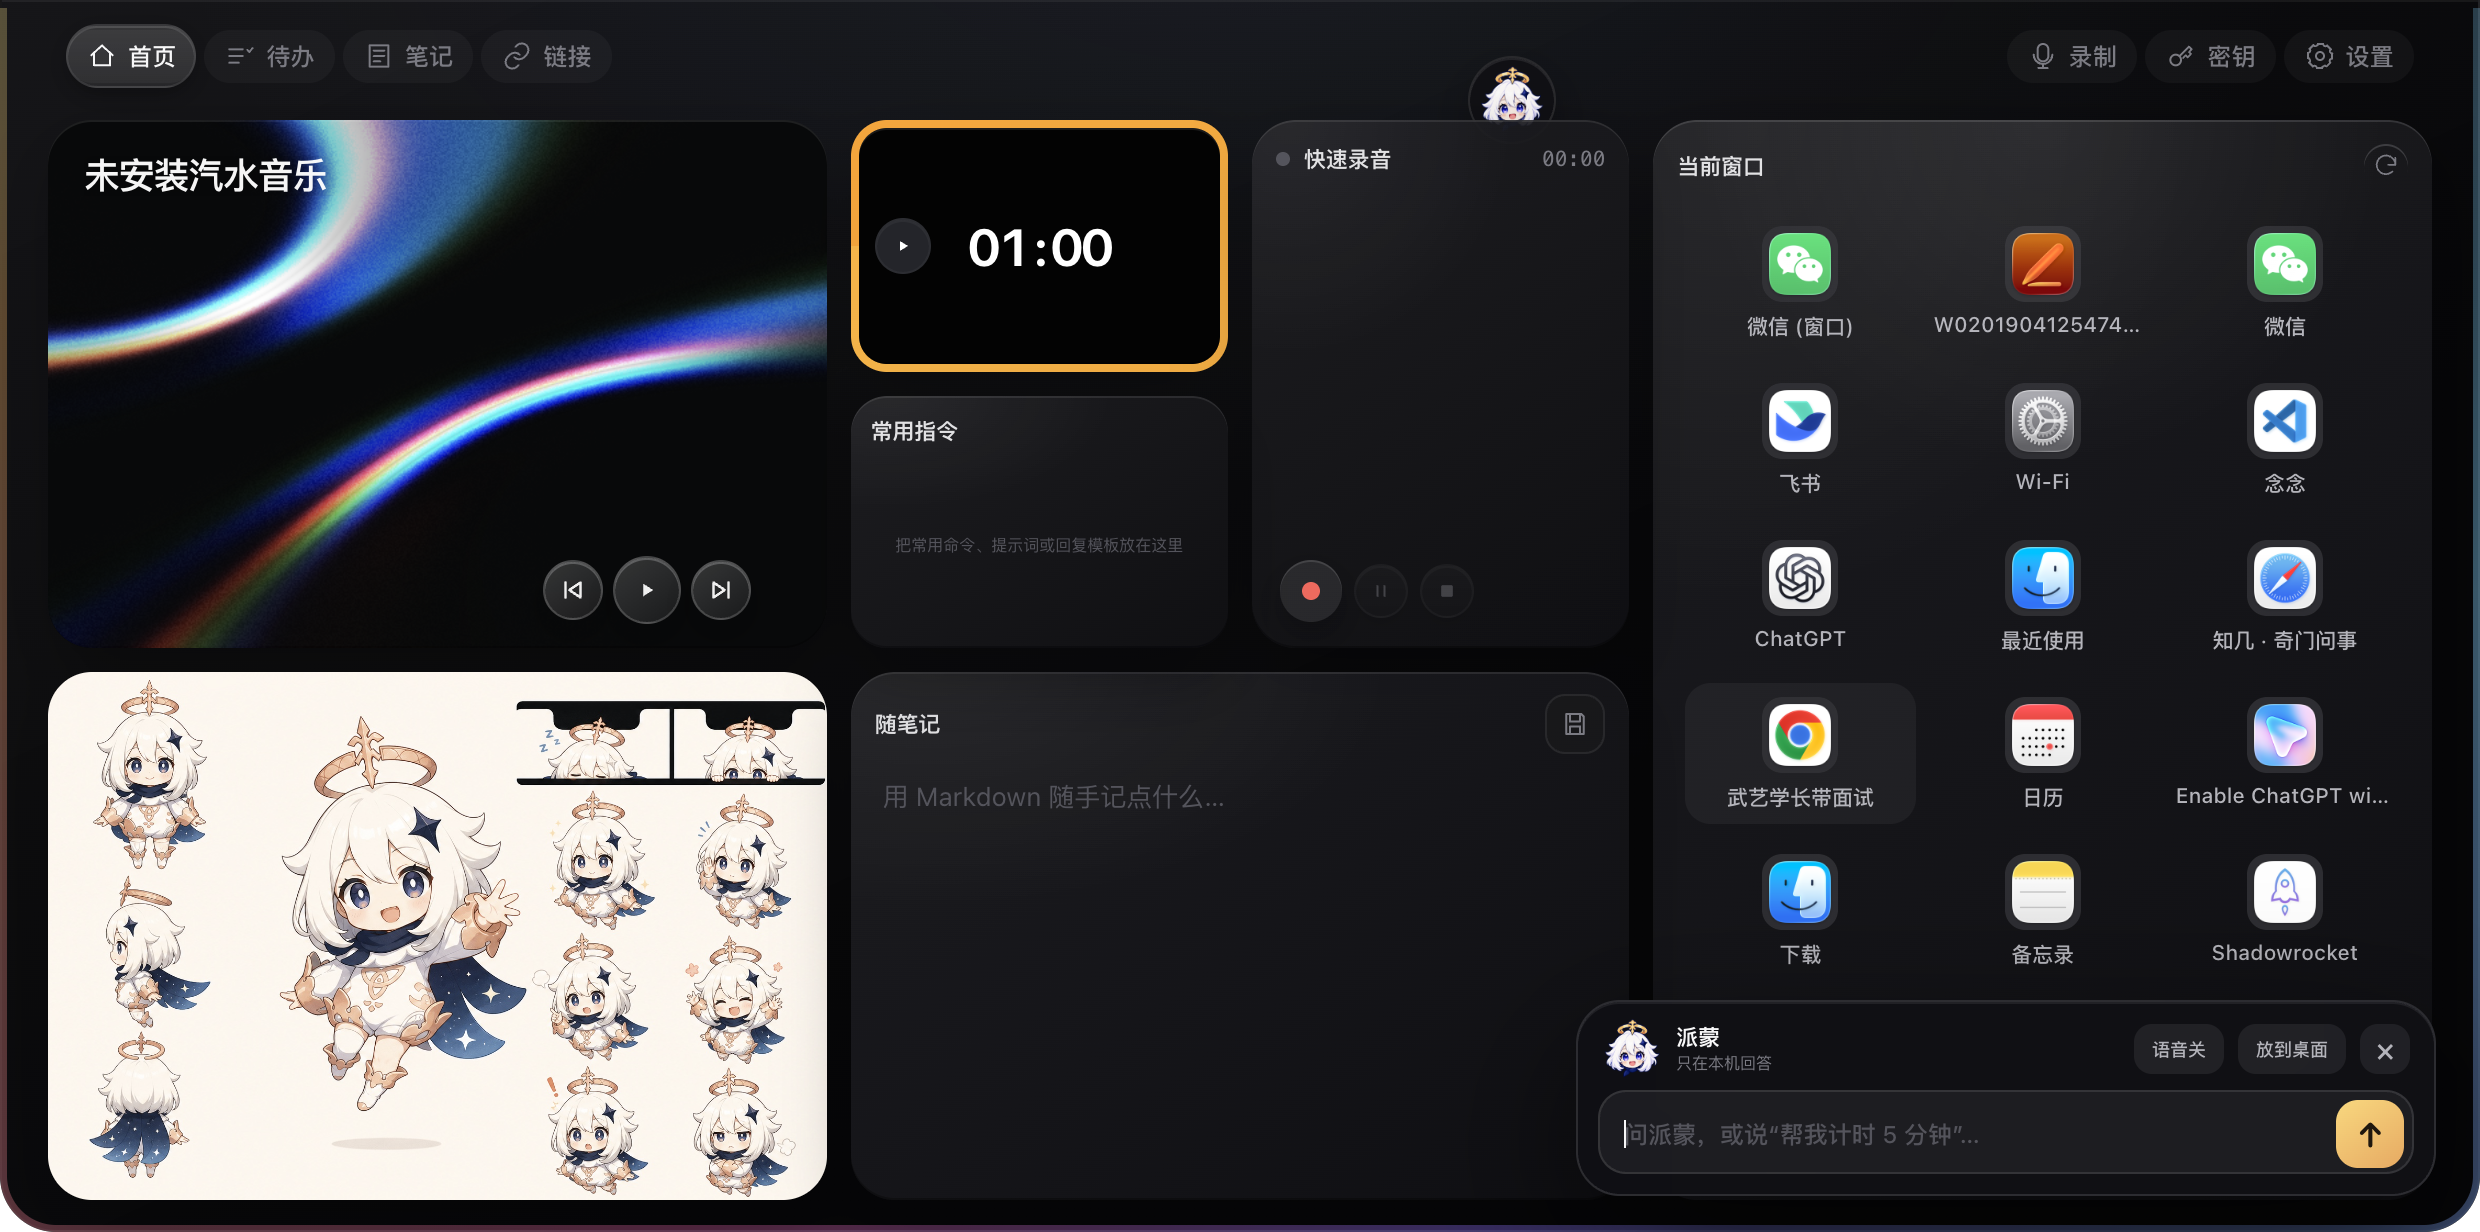
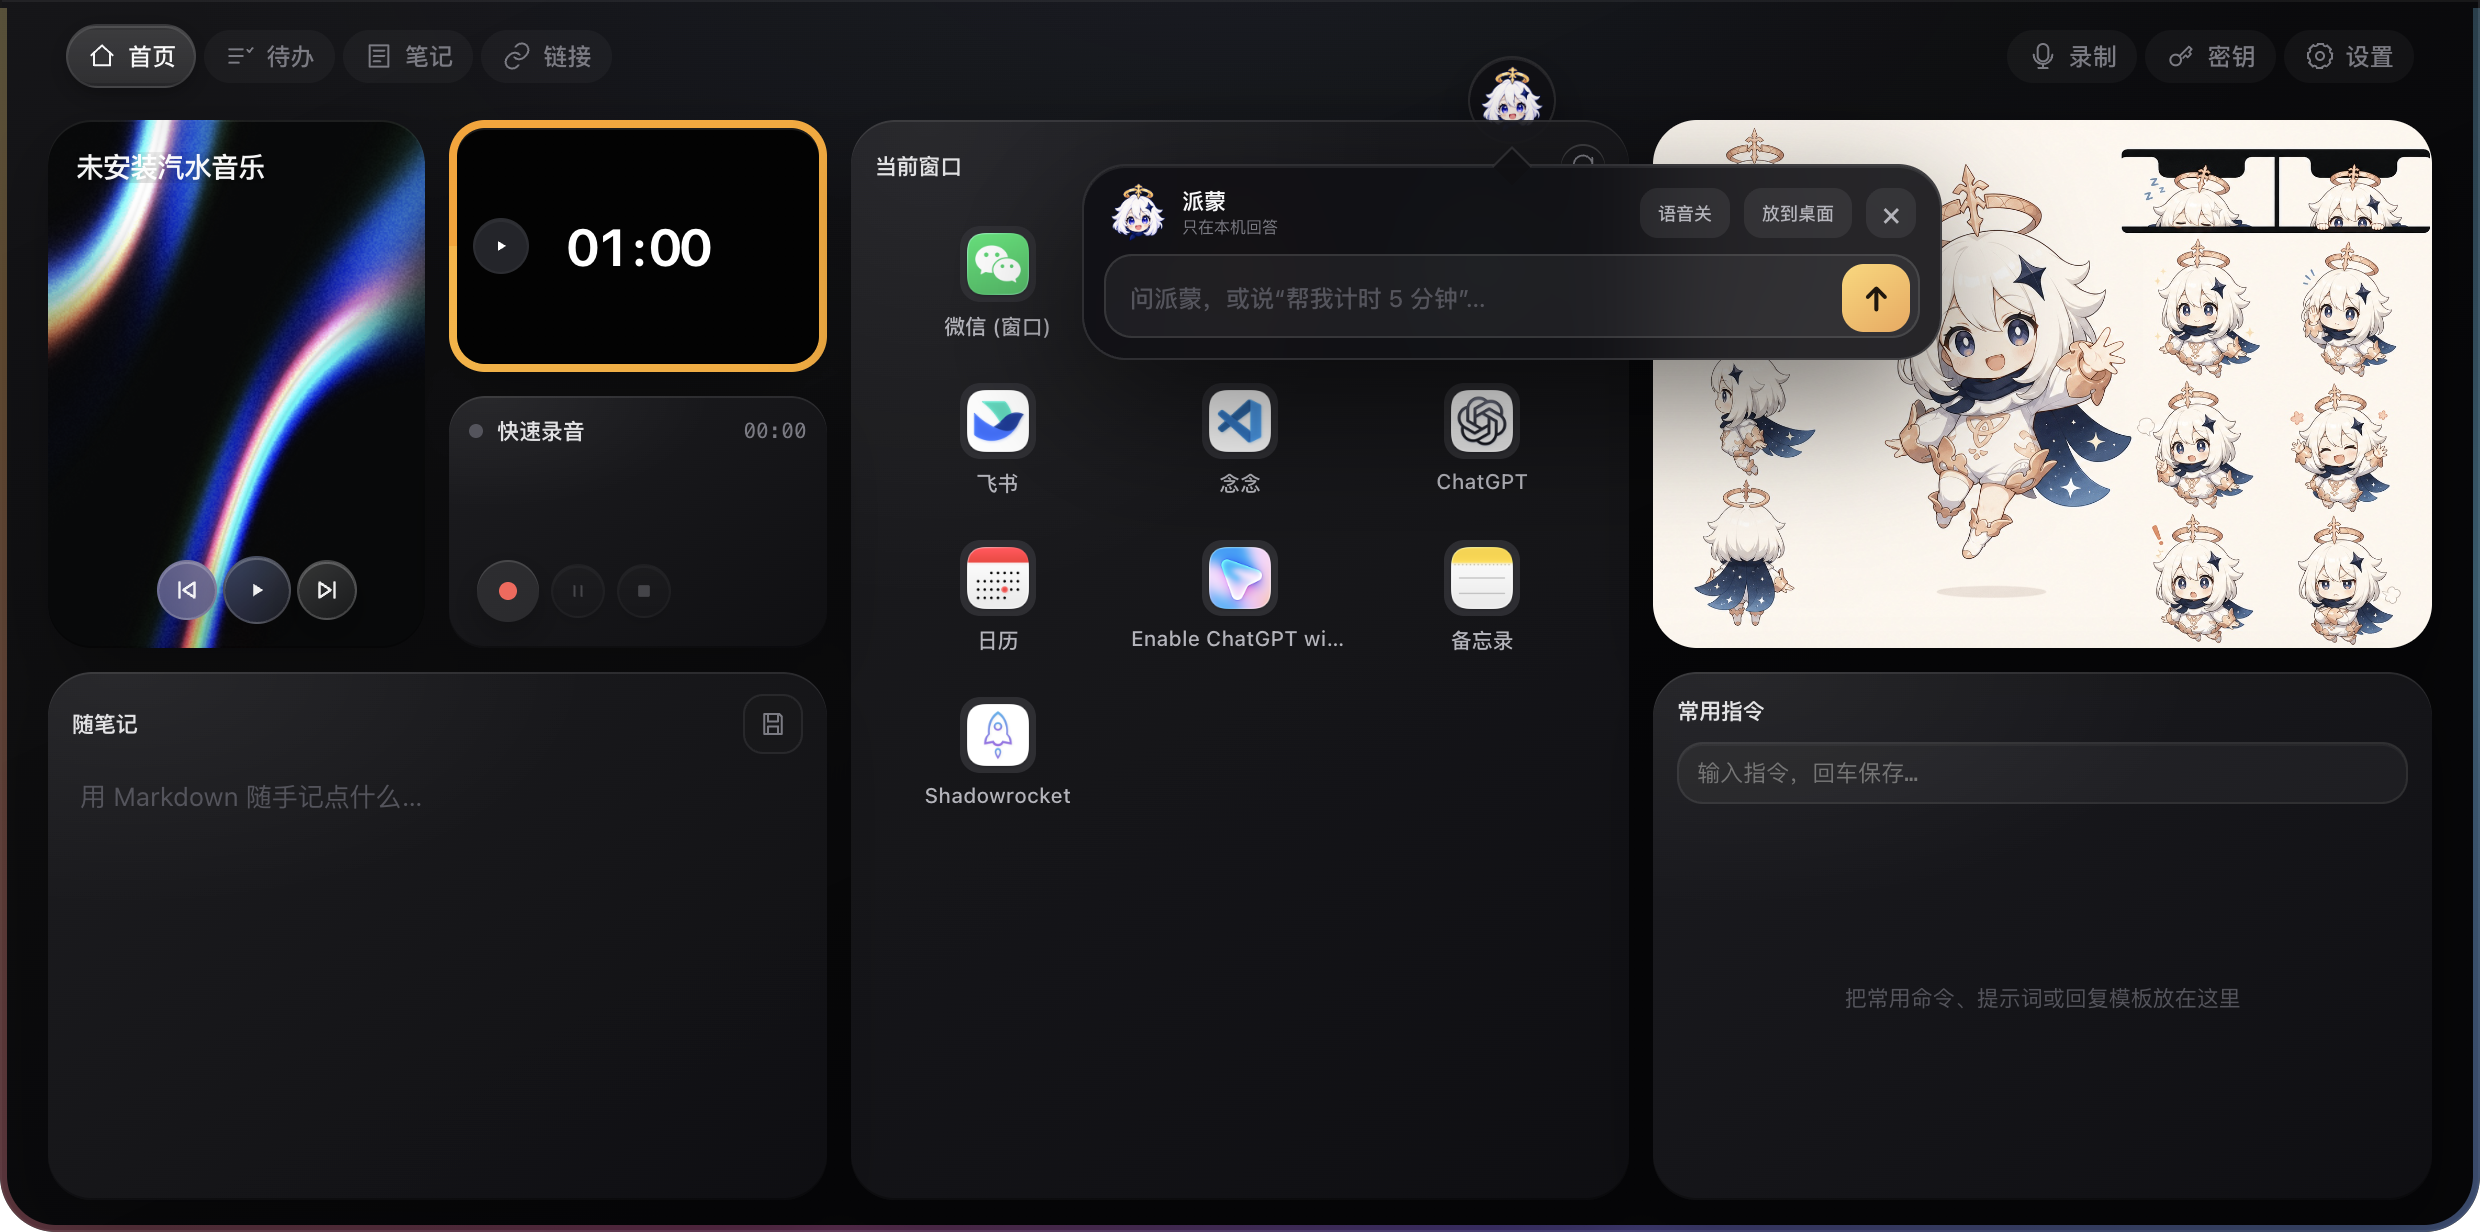
fix: anchor assistant below Paimon

diff --git a/ElectronRebase/scripts/capture-paimon-ui.js b/ElectronRebase/scripts/capture-paimon-ui.js
@@ -82,6 +82,23 @@ async function main() {
     await new Promise((resolve) => setTimeout(resolve, 250));
     const assistantVisible = await evaluate(mainClient, `!document.getElementById('paimon-assistant').hidden`);
     if (!assistantVisible) throw new Error('assistant composer did not open');
+    const assistantGeometry = await evaluate(mainClient, `(() => {
+      const panel = document.getElementById('paimon-assistant').getBoundingClientRect();
+      const trigger = document.getElementById('paimon-top-trigger').getBoundingClientRect();
+      return {
+        panel: { x: panel.x, y: panel.y, width: panel.width, height: panel.height, right: panel.right, bottom: panel.bottom },
+        trigger: { x: trigger.x, y: trigger.y, width: trigger.width, height: trigger.height, bottom: trigger.bottom },
+        viewport: { width: innerWidth, height: innerHeight }
+      };
+    })()`);
+    const panelCenter = assistantGeometry.panel.x + assistantGeometry.panel.width / 2;
+    const triggerCenter = assistantGeometry.trigger.x + assistantGeometry.trigger.width / 2;
+    if (Math.abs(panelCenter - triggerCenter) > 2) {
+      throw new Error(`assistant is not anchored to Paimon: ${JSON.stringify(assistantGeometry)}`);
+    }
+    if (assistantGeometry.panel.y < assistantGeometry.trigger.bottom || assistantGeometry.panel.right > assistantGeometry.viewport.width - 12) {
+      throw new Error(`assistant escaped the notch workspace: ${JSON.stringify(assistantGeometry)}`);
+    }
     const assistantPath = await capture(mainClient, 'paimon-pal-assistant.png');
 
     await evaluate(mainClient, `(() => {
@@ -139,6 +156,7 @@ async function main() {
       ok: true,
       expandedPath,
       assistantPath,
+      assistantGeometry,
       timerPath,
       modelPath,
       petPath,

diff --git a/ElectronRebase/renderer/styles.css b/ElectronRebase/renderer/styles.css
@@ -5422,8 +5422,11 @@ body {
 .paimon-assistant {
   position: absolute;
   z-index: 80;
-  right: 22px;
-  bottom: 18px;
+  top: 82px;
+  left: calc(50% + 136px);
+  right: auto;
+  bottom: auto;
+  translate: -50% 0;
   width: min(430px, calc(100% - 44px));
   padding: 10px;
   border: 1px solid rgba(255,255,255,.12);
@@ -5432,12 +5435,26 @@ body {
   box-shadow: 0 24px 70px rgba(0,0,0,.54), inset 0 1px rgba(255,255,255,.07);
   backdrop-filter: blur(28px) saturate(1.15);
   opacity: 0;
-  transform: translateY(12px) scale(.97);
-  transform-origin: 85% 100%;
+  transform: translateY(-8px) scale(.97);
+  transform-origin: 50% 0;
   transition: opacity 150ms var(--ease), transform 190ms var(--ease-out);
 }
 
 .paimon-assistant.is-visible { opacity: 1; transform: translateY(0) scale(1); }
+
+.paimon-assistant::before {
+  content: '';
+  position: absolute;
+  left: 50%;
+  top: -7px;
+  width: 13px;
+  height: 13px;
+  translate: -50% 0;
+  rotate: 45deg;
+  border-left: 1px solid rgba(255,255,255,.12);
+  border-top: 1px solid rgba(255,255,255,.12);
+  background: rgba(16,16,20,.94);
+}
 
 .paimon-assistant-head {
   height: 34px;

diff --git a/ElectronRebase/docs/PAIMON-PAL-0.5.0-IMPLEMENTATION-REPORT.md b/ElectronRebase/docs/PAIMON-PAL-0.5.0-IMPLEMENTATION-REPORT.md
@@ -16,6 +16,7 @@
 - 顶部刘海锚定、点击展开/收起、全屏可见与多屏定位。
 - 首页、待办、笔记、链接、番茄钟、快捷录音、当前窗口、音乐控制、密钥和设置等上游工作台能力。
 - 派蒙头像作为工作区内的助手入口；回答和输入框位于刘海展开区内部，不弹出屏幕中央大聊天窗口。
+- 派蒙输入框以顶部头像为锚点从正下方展开，自动验收会检查两者中心线及工作区边界，避免对话框漂到右下角。
 
 ### 桌面派蒙
 
@@ -59,7 +60,7 @@
 
 - 安装位置：`/Applications/Paimon Pal.app`
 - DMG：`dist.noindex/Paimon-Pal-0.5.0-arm64.dmg`
[2 lines of base64/hex data omitted]
 - 原 Swift 版回滚备份：`~/.Trash/Paimon Pal native 0.4.0 before Electron 0.5.0 2026-09-02.app`
 
 ## 6. 已知边界

diff --git a/ElectronRebase/CHANGELOG.md b/ElectronRebase/CHANGELOG.md
@@ -18,6 +18,7 @@
 - 使用标准 `app.asar` 归档，避免安装版错误启动 Electron 默认空壳。
 - 隔离 Paimon Pal 与上游 TO-DO Panel 的密钥数据，避免新签名反复请求旧钥匙串权限。
 - 统一刘海出场、桌面待机和聆听状态的角色尺寸，避免重复窗口、重影和拖拽失效。
+- 修复派蒙对话框固定在工作区右下角、与派蒙头像脱节的问题；对话框现在从头像正下方展开并限制在刘海工作区内。
 
 ## [1.0.5] - 2026-08-31
 
